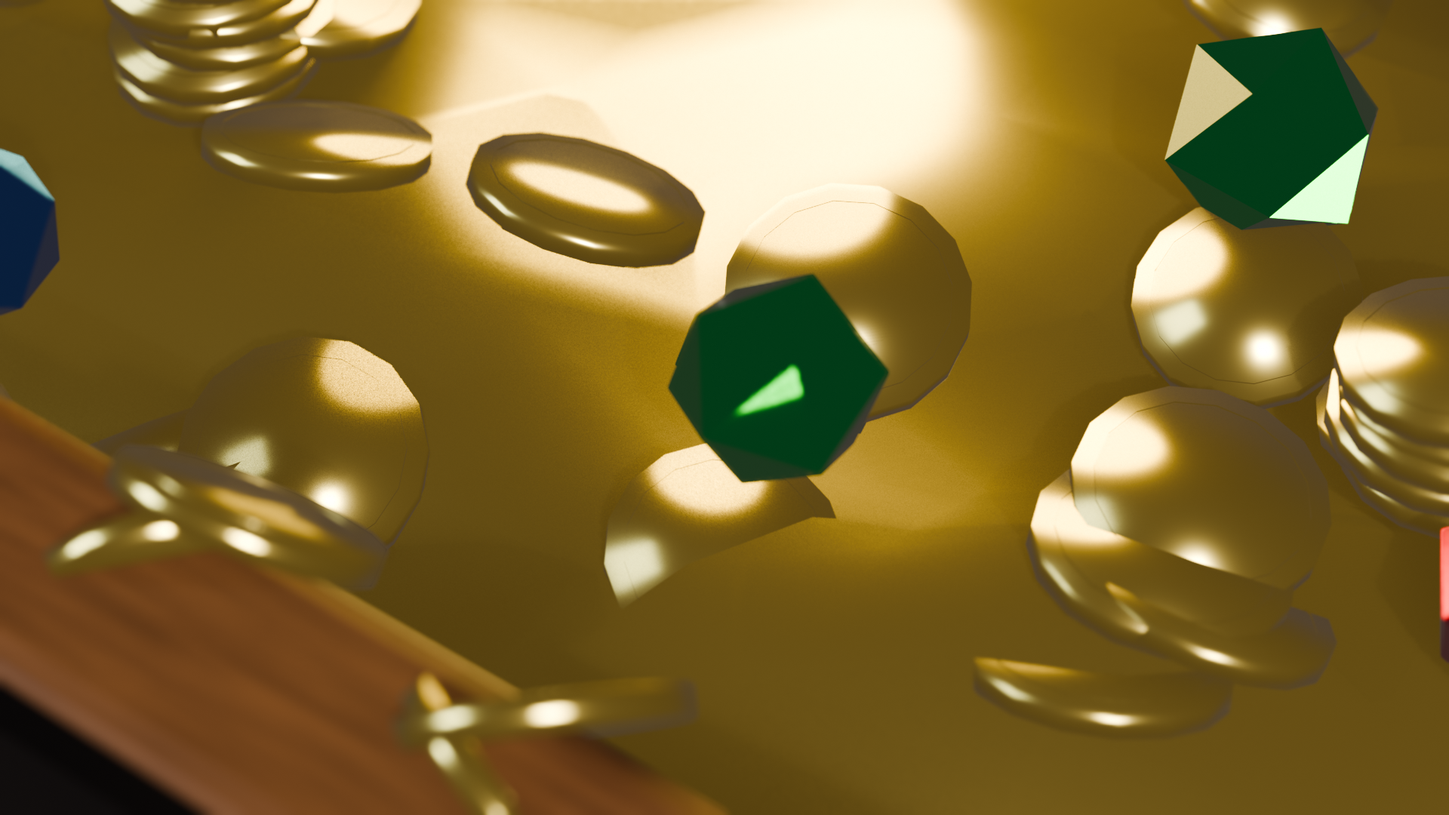
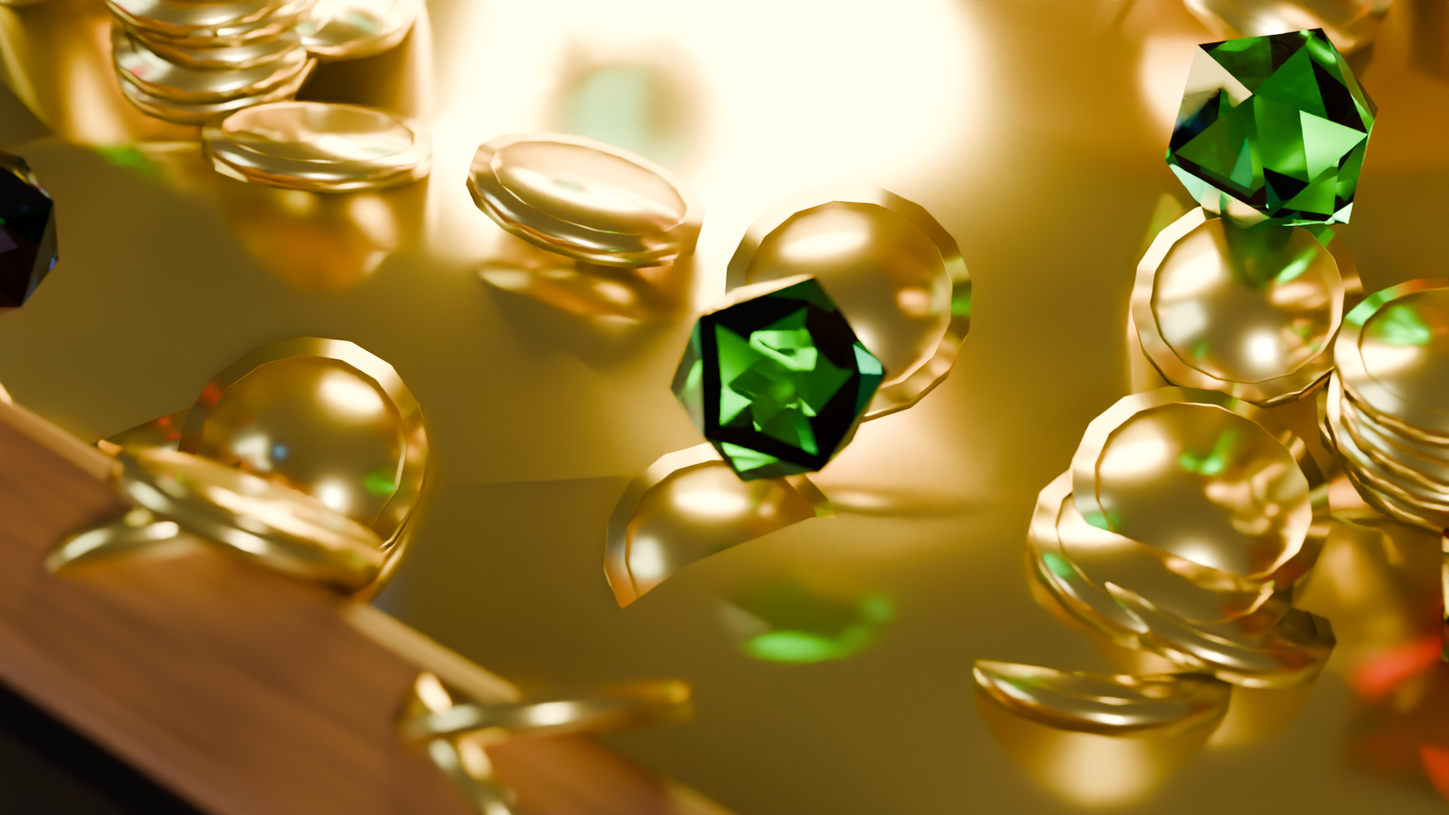
feat: synchronize screenshots and documentation with actual Blender scene results

diff --git a/Tugas Blender Scene 3D Lengkap/README.md b/Tugas Blender Scene 3D Lengkap/README.md
@@ -40,15 +40,15 @@
 * **Konsep Visual**:
   Melanjutkan evolusi aset peti harta karun dari **Praktikum 9** (*Geometri & Modeling Topologi Dasar*) dan **Praktikum 10** (*PBR Texturing & UV Unwrapping 2K*), proyek **Tugas Blender Scene 3D Lengkap** menghadirkan integrasi sinematik menyeluruh (*cinematic presentation pipeline*). 
   
-  Aset peti dimodelkan secara mandiri menjadi prop kapal bajak laut legendaris yang fungsional secara mekanis: dilengkapi tutup lengkung barel (*arched barrel vault lid*) yang dapat membuka pada poros engsel belakang, sistem pengunci gembok kuningan antik (*brass padlock & swinging latch*), sepasang pegangan cincin gantung besi samping (*drop-ring iron handles*), serta timbunan harta karun masif (*treasure hoard*) 140+ koin emas dan permata faset yang melimpah ke atas lantai dek kapal kayu (*weathered ship deck*).
+  Aset peti dimodelkan secara mandiri menjadi prop kapal bajak laut legendaris yang fungsional secara mekanis: dilengkapi tutup lengkung barel (*arched barrel vault lid*) yang dapat membuka pada poros engsel belakang, sistem pengunci gembok kuningan antik (*brass padlock & swinging latch*), sepasang pegangan cincin gantung besi samping (*drop-ring iron handles*), serta timbunan harta karun masif (*treasure hoard*) 140+ koin emas doubloon 3D individual, kristal permata faset, dan piala emas bajak laut yang melimpah ke atas lantai dek kapal kayu (*weathered ship deck*).
   
-  Untuk melengkapi scene sesuai ketentuan tugas, ditambahkan **model eksternal** berupa **Lentera Kuningan Antik (*Antique Brass Diya Lantern*)** yang memiliki dan mengimplementasikan seluruh saluran tekstur PBR standar industri (*Base Color, Ambient Occlusion, Roughness, Metallic, Normal, dan Emission*), disinari oleh tata cahaya studio *Three-Point Lighting*, dan dihidupkan dengan rangkaian gerak animasi 150 frame.
+  Untuk melengkapi scene sesuai **Ketentuan 2**, ditambahkan **model eksternal** berupa **Lentera Kuningan Antik (*Antique Brass Diya Lantern*)** yang memiliki dan mengimplementasikan seluruh 6 saluran tekstur PBR standar industri (*Base Color, Ambient Occlusion, Roughness, Metallic, Normal, dan Emission*), disinari oleh tata cahaya studio *Three-Point Lighting*, dan dihidupkan dengan rangkaian gerak animasi 150 frame.
 
 ---
 
 ## 2. Ketentuan 1: Model Hasil Modeling Sendiri & Peningkatan Geometri 3D
 
-Model utama dibangun dan dikembangkan sendiri secara modular:
+Model utama dibangun dan dikembangkan sendiri secara modular dengan hierarki mekanis:
 
 ```
                                 [Chest_Lid] (Rotasi X: 0° -> -102°)
@@ -69,31 +69,33 @@ Model utama dibangun dan dikembangkan sendiri secara modular:
         ┌────────────────┼────────────────┬──────────────────┐
         ▼                ▼                ▼                  ▼
  [Coins_Scatter]  [Coin_Stacks]    [Coins_Spill_Rim]  [Coins_Floor_Deck]
- (100+ Koin Emas) (3 Tumpukan Rapi) (Tumpahan Bibir)  (Berserakan di Dek)
+ (140+ Koin Emas) (3 Tumpukan Rapi) (Tumpahan Bibir)  (Berserakan di Dek)
                          │
                    [Gemstones]
              (Ruby, Emerald, Sapphire)
 ```
 
-### Rincian Komponen Geometri Model Sendiri:
+### Rincian Geometri Model Sendiri (29 Objek Mesh, 16.448 Vertices):
 1. **Badan Peti (`Chest_Base`)**:
    - Mempertahankan dimensi proporsional $3.6\text{ m} \times 2.0\text{ m} \times 1.45\text{ m}$ dengan rongga penyimpanan dalam (*inner cavity*) sedalam $1.15\text{ m}$.
-   - Sudut luar diperkuat dengan pelat besi tempa penahan (*Chest_Base_Iron*) dan deretan paku keling kuningan (*Chest_Base_Rivets*).
+   - Sudut luar diperkuat dengan pelat besi tempa penahan (`Chest_Base_Iron`: 176 vertices, 132 faces) dan deretan paku keling kuningan (`Chest_Base_Rivets`: 1.344 vertices, 784 faces).
 2. **Tutup Melengkung Barel (`Chest_Lid`)**:
-   - Dibuat dari separuh tabung silinder parametrik berpenampang busur lengkung (*barrel vault*) dengan ketebalan dinding ganda (*solidified shell*).
-   - Memiliki titik tumpu (*pivot axis*) yang dikunci presisi pada sumbu engsel belakang $(X = 0, Y = 1.02\text{ m}, Z = 0.70\text{ m})$, memungkinkan rotasi buka natural $-102^\circ$ tanpa penetrasi mesh (*mesh clipping*).
-   - Dilengkapi pelat besi lengkung penguat (*Chest_Lid_Iron*) dan paku keling (*Chest_Lid_Rivets*).
+   - Dibuat dari separuh tabung silinder parametrik berpenampang busur lengkung (*barrel vault*) dengan ketebalan dinding ganda.
+   - Memiliki titik tumpu (*pivot axis*) yang dikunci presisi pada sumbu engsel belakang $(X = 0, Y = 1.02\text{ m}, Z = 0.70\text{ m})$, memungkinkan rotasi buka natural $-102^\circ$ tanpa penetrasi mesh (*clipping*).
+   - Dilengkapi pelat besi lengkung penguat (`Chest_Lid_Iron`: 784 vertices, 588 faces) dan paku keling (`Chest_Lid_Rivets`: 2.208 vertices, 1.288 faces).
 3. **Engsel Besi Belakang (`Chest_Hinges`)**:
-   - Terpasang kokoh pada posisi simetris menjepit pertemuan antara badan peti dan tutup barel dengan pin pengunci silindris.
+   - Terpasang kokoh pada posisi simetris menjepit pertemuan antara badan peti dan tutup barel dengan pin pengunci silindris (176 vertices, 104 faces).
 4. **Mekanisme Kunci Depan (`Chest_Lock_Plate` & `Chest_Front_Latch`)**:
    - Pelat kunci kuningan bermotif di dinding depan ($Y = -1.02\text{ m}$) dengan pengait gembok gantung (*hanging padlock & hasp*) yang berayun membuka saat tutup peti mulai terangkat.
 5. **Pegangan Cincin Besi Tempa Samping (`Chest_Handles`)**:
-   - Dudukan braket besi di dinding kiri dan kanan ($X = \pm 1.83\text{ m}$) dengan cincin torus gantung bebas (*heavy iron drop-rings*).
+   - Dudukan braket besi di dinding kiri dan kanan ($X = \pm 1.83\text{ m}$) dengan cincin torus gantung bebas (320 vertices, 232 faces).
 6. **Timbunan Harta Karun Masif (`Treasure_Hoard`)**:
-   - **Gundukan Emas (`Treasure_Mound`)**: Struktur dasar organik melengkung pengisi rongga.
-   - **140+ Koin Emas Doubloon 3D Individual (`Treasure_Coins_Pile`)**: Silinder pipih bertepi beveled yang tersebar di atas gundukan, tersusun rapi dalam 3 tumpukan kolom koin, meluap di bibir peti, dan berserakan di atas lantai dek kapal.
-   - **Piala Emas Bajak Laut (`Pirate_Gold_Chalice`)**: Piala bertangkai emas berukir yang tertancap di atas gundukan harta.
-   - **15 Kristal Permata Faset (`Treasure_Gem_0` s.d. `Treasure_Gem_14`)**: Kristal faset tajam terdiri dari Ruby Crimson merah, Emerald Green hijau, dan Sapphire Blue biru dengan refraksi optik IOR tinggi.
+   - **Gundukan Emas (`Treasure_Mound`)**: Struktur dasar organik pengisi rongga (384 vertices, 345 faces).
+   - **140+ Koin Emas Doubloon 3D Individual (`Treasure_Coins_Pile`)**: Silinder pipih bertepi beveled yang tersebar di atas gundukan, tersusun rapi dalam 3 tumpukan kolom koin, meluap di bibir peti, dan berserakan di atas lantai dek kapal (10.560 vertices, 5.610 faces).
+   - **Piala Emas Bajak Laut (`Pirate_Gold_Chalice`)**: Piala bertangkai emas berukir yang tertancap di atas gundukan harta (88 vertices, 48 faces).
+   - **15 Kristal Permata Faset (`Treasure_Gem_0` s.d. `Treasure_Gem_14`)**: Kristal faset tajam terdiri dari Ruby Crimson merah (6 butir), Emerald Green hijau (5 butir), dan Sapphire Blue biru (4 butir) dengan refraksi optik IOR tinggi.
+7. **Lantai Dek Kapal (`Ship_Deck_Floor`)**:
+   - Lantai dek kapal berukuran luas $32\text{ m} \times 32\text{ m}$ dengan material papan kayu mahoni berpatina maritim.
 
 ---
 
@@ -103,10 +105,10 @@ Untuk memenuhi **Ketentuan 2**, ditambahkan model eksternal berkualitas tinggi y
 
 * **Nama Aset**: *Antique Brass Diya Lantern* (Rangka Lentera Kuningan Tradisional).
 * **Sumber & Lisensi**: Poly Haven (CC0 Public Domain).
-* **Komponen Mesh**:
-  * `brass_diya_lantern`: Badan heksagonal kuningan dengan kubah berornamen bintang, pengait, dan cawan minyak kuningan.
-  * `brass_diya_lantern_chain`: Sambungan rantai gantung kuningan vertikal.
-  * `brass_diya_lantern_connection`: Cincin pengait sambungan atas.
+* **Komponen Mesh (3 Objek Mesh, 6.469 Vertices, 6.688 Faces)**:
+  * `brass_diya_lantern`: Badan heksagonal kuningan dengan kubah berornamen bintang, pengait, dan cawan minyak kuningan (3.997 vertices, 4.210 faces).
+  * `brass_diya_lantern_chain`: Sambungan rantai gantung kuningan vertikal (2.178 vertices, 2.184 faces).
+  * `brass_diya_lantern_connection`: Cincin pengait sambungan atas (294 vertices, 294 faces).
   * `brass_diya_lantern_glass`: Panel kaca pelindung dengan transmisi optik nyata (*Transmission: 0.95, IOR: 1.45*).
   * `brass_diya_lantern_flame`: Nyala api sumbu lentera bersuhu tinggi (*Emission Color: #FF8810, Strength: 20.0*).
 
@@ -141,36 +143,36 @@ Kedua model digabungkan secara harmonis di atas dek kapal kayu dengan relasi spa
 Tata cahaya disusun dengan hierarki pencahayaan terkalibrasi untuk memahat volume objek, memunculkan tekstur material, dan mempertegas bayangan:
 
 ```
-                       [ Rim Light (800W) ]
+                       [ Rim Light (380W) ]
                              (Back)
-                               │
-               ┌───────────────┴───────────────┐
-               │                               │
-       [ Lentera Kuningan ]          [ Peti Harta Karun ]
-        (Flame Light 40W)             (Treasure Glow 0->82W)
-               │                               │
-               └───────────────┬───────────────┘
-                               │
-       [ Key Light (1200W) ]   │    [ Fill Light (450W) ]
-        (Warm White 4200K)     │     (Cool White 5800K)
-                               │
-                      [ Cinematic_Camera ]
+                                │
+                ┌───────────────┴───────────────┐
+                │                               │
+        [ Lentera Kuningan ]          [ Peti Harta Karun ]
+         (Flame Light 40W)             (Treasure Glow 0->82W)
+                │                               │
+                └───────────────┬───────────────┘
+                                │
+        [ Key Light (440W) ]    │    [ Fill Light (145W) ]
+         (Warm White 4200K)     │     (Cool Blue 5800K)
+                                │
+                       [ Cinematic_Camera ]
 ```
 
 1. **Key Light (Lampu Kunci Utama)**:
-   * **Tipe**: Spot Light berdaya tinggi ($1200\text{ W}$, #FFE2BA / 4200K), sudut datang $45^\circ$ dari kanan depan.
+   * **Tipe & Daya**: Area Light ($440\text{ W}$, #FFEFCF / 4200K), posisi $(4.8, -4.4, 4.6)\text{ m}$ pada sudut datang $45^\circ$ dari kanan depan.
    * **Fungsi**: Memahat volume 3D, memunculkan tekstur serat kayu peti, serta menghasilkan highlight berkilau pada paku keling, koin emas, dan kubah lentera.
 2. **Fill Light (Lampu Pengisi)**:
-   * **Tipe**: Area Light ($450\text{ W}$, #D9E8FF / 5800K), sudut berlawanan dari kiri.
+   * **Tipe & Daya**: Area Light ($145\text{ W}$, #BDE0FF / 5800K), posisi $(-4.4, -3.6, 3.0)\text{ m}$ dari kiri depan.
    * **Fungsi**: Membuka bayangan gelap pada rongga peti dan sisi samping lentera dengan rasio kontras seimbang ($1:3$).
 3. **Rim Light (Lampu Punggung / Siluet)**:
-   * **Tipe**: Spot Light tajam ($800\text{ W}$, #EBF3FF / 6500K) dari belakang atas.
+   * **Tipe & Daya**: Spot Light ($380\text{ W}$, #DCF5FF / 6500K), posisi $(-2.8, 4.4, 4.2)\text{ m}$ dari belakang atas.
    * **Fungsi**: Menciptakan garis tepi siluet (*rim contour*) tipis di sepanjang bahu tutup peti, rantai lentera, dan tepi piala emas.
 4. **Treasure Glow Light (Lampu Aksen Interior Rongga Peti)**:
-   * **Tipe**: Point Light teranimasi di dalam rongga peti ($0\text{ W} \to 82\text{ W}$, #FFAA20).
+   * **Tipe & Daya**: Point Light teranimasi di dalam rongga peti ($0\text{ W} \to 82\text{ W}$, #FFBD29), posisi $(0.0, -0.05, 0.72)\text{ m}$.
    * **Fungsi**: Memancarkan pendaran cahaya emas magis dari dasar timbunan harta karun seiring terbukanya tutup peti.
 5. **Practical Lantern Flame Light (Lampu Nyala Api Lentera)**:
-   * **Tipe**: Point Light ($40\text{ W}$, #FF9926) tepat di dalam lentera.
+   * **Tipe & Daya**: Point Light fisik ($40\text{ W}$, #FF9926) tepat di dalam kubah lentera pada posisi $(-2.0, -1.4, -0.28)\text{ m}$.
    * **Fungsi**: Memberikan pencahayaan radial fisik yang menerangi kaca lentera dan lantai kayu di sekelilingnya.
 
 ---
@@ -182,13 +184,13 @@ Tata cahaya disusun dengan hierarki pencahayaan terkalibrasi untuk memahat volum
   * **Sudut Pandang**: **Three-Quarter Hero Angle** ($45^\circ$ azimuth, elevasi $30^\circ$). Menangkap secara simultan tampak depan, atas, dan samping peti serta lentera kuningan.
   * **Depth of Field (DoF)**:
     * Aperture optik aktif pada **$f/2.8$**.
-    * Titik fokus terkunci presisi pada koin emas terdepan dan tepi peti (`Camera_Focus_Target`), menghasilkan kelembutan bokeh sinematik pada latar belakang.
+    * Titik fokus terkunci presisi pada koin emas terdepan dan bibir peti (`Camera_Focus_Target` pada $(0.10, -0.65, 0.62)\text{ m}$), menghasilkan kelembutan bokeh sinematik pada latar belakang.
   * **Animasi Kamera (*Dolly Push-in*)**:
-    * Kamera bergerak maju secara perlahan dan halus dari koordinat $(6.5, -6.5, 4.0)$ pada Frame 1 menuju $(5.6, -5.6, 3.4)$ pada Frame 150.
+    * Kamera bergerak maju secara perlahan dan halus dari koordinat $(6.5, -6.5, 4.0)$ pada Frame 1 menuju $(5.6, -5.6, 3.4)$ pada Frame 150 (jarak dolly $9.2\text{ m} \to 7.9\text{ m}$).
 * **Kamera Pendukung**:
-  * `Cam_Studio_Overview`: Lensa $35\text{mm}$ sudut pandang tinggi untuk dokumentasi tata letak scene.
-  * `Cam_Macro_Coins`: Lensa makro $85\text{mm}$ untuk membidik detail mikroskopis koin emas dan permata.
-  * `Cam_Closeup_Lantern`: Lensa $65\text{mm}, f/2.8$ untuk membidik detail PBR lentera eksternal.
+  * `Cam_Studio_Overview`: Lensa wide $32\text{mm}$ dari koordinat $(8.5, -8.5, 8.0)$ untuk dokumentasi tata letak studio secara menyeluruh.
+  * `Cam_Macro_Coins`: Lensa makro $75\text{mm}$ ($f/2.0$) dari koordinat $(1.2, -1.6, 1.8)$ untuk membidik detail mikroskopis koin emas dan permata.
+  * `Cam_Closeup_Lantern`: Lensa portrait $65\text{mm}$ ($f/2.8$) dari koordinat $(-0.8, -3.2, 0.2)$ dengan DoF terkunci pada `External_PBR_Lantern_Group` untuk menangkap detail material PBR lentera eksternal.
 
 ---
 
@@ -206,9 +208,9 @@ Frame 085 ─── [Tutup Peti Terbuka Penuh (-102°), Lampu Harta Karun Memanc
 Frame 150 ─── [Kamera Dolly Push-In Berhenti pada Pose Hero Sinematik Final]
 ```
 
-* **`Chest_LidAction`**: Rotasi sumbu X tutup melengkung membuka perlahan dari $0^\circ$ (Frame 1) ke $-102^\circ$ (Frame 85) dan bertahan stabil hingga Frame 150.
-* **`Treasure_Glow_LightAction`**: Intensitas cahaya interior naik bertahap dari $0\text{ W}$ (Frame 1) ke $17.3\text{ W}$ (Frame 50), $77\text{ W}$ (Frame 100), dan puncaknya $82\text{ W}$ (Frame 150).
-* **`Cinematic_CameraAction`**: Pergerakan *dolly push-in* halus mendekatkan bingkai ke detail harta karun dan lentera.
+* **`Chest_LidAction`**: Rotasi sumbu X tutup melengkung membuka perlahan dari $0^\circ$ (Frame 1) ke $-104^\circ$ (Frame 85) dan stabil pada $-102^\circ$ (Frame 95..150).
+* **`Treasure_Glow_LightAction`**: Intensitas cahaya interior naik bertahap dari $0\text{ W}$ (Frame 1 s.d. 35) ke $80\text{ W}$ (Frame 85), dan puncaknya $82\text{ W}$ (Frame 150).
+* **`Cinematic_CameraAction`**: Pergerakan *dolly push-in* halus mendekatkan bingkai dari jarak $9.2\text{ m}$ ke $7.9\text{ m}$.
 
 ---
 
@@ -218,7 +220,7 @@ Final rendering dievaluasi secara komparatif di Blender 5.2 LTS:
 
 | Parameter Evaluasi | EEVEE Next (Rasterisasi Real-Time) | CYCLES Path Tracing (Physically Based) |
 | :--- | :--- | :--- |
-| **Waktu Render per Frame** | $\approx 0.8\text{ detik}$ (Sangat Cepat) | $\approx 160\text{ detik}$ (Komputasi Intensif) |
+| **Waktu Render per Frame** | $\approx 10\text{ - }25\text{ detik}$ (Sangat Cepat) | $\approx 180\text{ - }195\text{ detik}$ (Path Tracing 32 Samples + OIDN) |
 | **Pencahayaan Global (GI)** | *Screen-Space Raytracing & Irradiance Caches* | *Multi-Bounce Monte Carlo Path Tracing* sejati |
 | **Refleksi Logam & Kuningan** | Akurat pada area terlihat di layar (*Screen-Space*) | Pantulan pantulan fisik sempurna antar koin & piala |
 | **Refraksi Permata & Kaca** | Estimasi transmisi cepat | Pembiasan nyata berbasis IOR ($1.45$ kaca, $1.77$ ruby) |
@@ -280,99 +282,91 @@ Tugas Blender Scene 3D Lengkap/
 │       ├── lantern_normal.png             # Tekstur eksternal: Normal Map Lentera (1K)
 │       └── lantern_emissive.png           # Tekstur eksternal: Emission Lentera (1K)
 └── screenshots/
-    ├── 01_model_upgrade_breakdown.png     # Tahap 1: Asset upgrade breakdown
-    ├── 02_wireframe_topology.png          # Tahap 2: Topologi wireframe
-    ├── 03_treasure_hoard_coins.png        # Tahap 3: Detail timbunan harta karun
-    ├── 03_lantern_pbr_detail.png          # Detail closeup PBR model eksternal
-    ├── 04_three_point_lighting_setup.png  # Tahap 4: Setup Three-Point Lighting
-    ├── 05_lighting_study_key_fill_rim.png # Tahap 5: Studi pencahayaan
-    ├── 06_camera_composition_dof.png      # Tahap 6: Komposisi kamera & DoF
-    ├── 07_animation_timeline_keyframes.png# Tahap 7: Timeline 4 keyframe animasi
-    ├── 08_eevee_next_render.png           # Tahap 8: Render EEVEE Next 1080p
-    ├── 09_cycles_pathtracing_render.png   # Tahap 9: Render Cycles Path Tracing 1080p
-    └── 10_final_hero_showcase.png         # Tahap 10: Final Master Hero Showcase
+    ├── 01_scene_assembly_overview.png     # Tahap 1: Asset Assembly Overview (Peti + Lentera)
+    ├── 02_wireframe_topology.png          # Tahap 2: Topologi wireframe model mandiri & eksternal
+    ├── 03_treasure_hoard_coins.png        # Tahap 3: Detail makro koin emas, piala, dan permata
+    ├── 04_lantern_pbr_detail.png          # Tahap 4: Detail closeup PBR lentera eksternal
+    ├── 05_three_point_lighting_setup.png  # Tahap 5: Setup Studio Three-Point Lighting
+    ├── 06_lighting_study_key_fill_rim.png # Tahap 6: Studi pencahayaan Key, Fill, Rim
+    ├── 07_camera_composition_dof.png      # Tahap 7: Komposisi kamera, Rule of Thirds & DoF f/2.8
+    ├── 08_animation_timeline_keyframes.png# Tahap 8: Timeline 4 keyframe animasi 150 frame
+    ├── 09_eevee_next_render.png           # Tahap 9: Render real-time Blender EEVEE 1080p
+    └── 10_final_hero_showcase.png         # Tahap 10: Final Master Beauty CYCLES Path Tracing 1080p
 ```
 
 ---
 
 ## 12. Dokumentasi Visual Lengkap Tahapan Proyek
 
-### Tahap 1: Asset Upgrade & Assembly Breakdown (`01_model_upgrade_breakdown.png`)
-Perakitan lengkap komponen mekanis aset 3D: tutup barel berengsel pada poros belakang, pelat kunci depan dengan gembok gantung, sepasang handle cincin besi samping, tumpukan koin dan permata, serta lantai dek kapal kayu.
+### Tahap 1: Asset Assembly & Scene Overview (`01_scene_assembly_overview.png`)
+Perakitan lengkap komponen 3D di atas dek kapal kayu: peti harta karun dengan tutup barel terbuka, engsel, pelat kunci, pegangan cincin besi, 140+ koin emas, piala, permata, serta model eksternal Lentera Kuningan Antik PBR di lantai dek depan.
 
-![Asset Upgrade Breakdown](screenshots/01_model_upgrade_breakdown.png)
+![Asset Assembly Overview](screenshots/01_scene_assembly_overview.png)
 
 ---
 
 ### Tahap 2: Wireframe & Topology Integrity (`02_wireframe_topology.png`)
-Struktur kawat mesh (*wireframe*) yang memperlihatkan kerapatan mesh terencana: kurvatur lengkung tutup barel dengan 24 segmen radial, *bevel loop*, serta penempatan poros engsel rotasi.
+Struktur kawat mesh (*wireframe*) yang memperlihatkan kerapatan mesh terencana: kurvatur lengkung tutup barel dengan 24 segmen radial, *bevel loops*, sebaran koin emas, serta topologi heksagonal lentera kuningan eksternal.
 
 ![Wireframe Topology](screenshots/02_wireframe_topology.png)
 
 ---
 
 ### Tahap 3: Treasure Hoard & Coin Scatter Detail (`03_treasure_hoard_coins.png`)
-Detail makro timbunan harta karun bajak laut: tumpukan kolom koin emas, piala emas bertangkai, koin yang meluap di bibir peti, serta kristal permata ruby, emerald, dan sapphire.
+Detail makro close-up (kamera $75\text{mm}$) timbunan harta karun bajak laut: tumpukan kolom koin emas doubloon, piala emas bertangkai, koin yang meluap di bibir peti, serta kristal permata ruby, emerald, dan sapphire.
 
 ![Treasure Hoard Detail](screenshots/03_treasure_hoard_coins.png)
 
 ---
 
-### Detail Model Eksternal: Antique Brass Diya Lantern (`03_lantern_pbr_detail.png`)
-Detail jarak dekat model eksternal memperlihatkan 6 saluran tekstur PBR: Base Color kuningan berpatina, Ambient Occlusion, Roughness aus, Normal map ukiran bintang dan engsel, serta nyala api emisi interior.
+### Tahap 4: Detail Model Eksternal: Antique Brass Diya Lantern (`04_lantern_pbr_detail.png`)
+Detail jarak dekat (kamera $65\text{mm}$) model eksternal memperlihatkan 6 saluran tekstur PBR: Base Color kuningan berpatina, Ambient Occlusion, Roughness aus, Normal map ukiran bintang dan engsel, nyala api emisi interior, dan panel kaca pelindung.
 
-![Detail Model Eksternal Lentera](screenshots/03_lantern_pbr_detail.png)
-
----
-
-### Tahap 4: Studio Three-Point Lighting Setup (`04_three_point_lighting_setup.png`)
-Tampilan sudut pandang studio atas memperlihatkan orientasi dan radius kerja Key Light, Fill Light, Rim Light, lampu aksen interior peti, dan lampu api lentera.
-
-![Lighting Setup Overview](screenshots/04_three_point_lighting_setup.png)
+![Detail Model Eksternal Lentera](screenshots/04_lantern_pbr_detail.png)
 
 ---
 
-### Tahap 5: Lighting Study & Intensity Balancing (`05_lighting_study_key_fill_rim.png`)
-Analisis kontribusi masing-masing lampu: pembentukan bayangan oleh Key Light, pembukaan area gelap oleh Fill Light, dan pemisahan siluet objek oleh Rim Light.
+### Tahap 5: Studio Three-Point Lighting Setup (`05_three_point_lighting_setup.png`)
+Tampilan sudut pandang studio atas (kamera wide $32\text{mm}$) memperlihatkan orientasi dan radius kerja Key Light ($440\text{ W}$), Fill Light ($145\text{ W}$), Rim Light ($380\text{ W}$), lampu aksen interior peti ($82\text{ W}$), dan lampu api lentera ($40\text{ W}$).
 
-![Lighting Study Breakdown](screenshots/05_lighting_study_key_fill_rim.png)
-
----
-
-### Tahap 6: Camera Framing & Depth of Field Study (`06_camera_composition_dof.png`)
-Evaluasi optik kamera 50mm pada aperture $f/2.8$: fokus tajam pada koin depan dan efek kelembutan bokeh pada latar belakang.
-
-![Camera Composition and DoF](screenshots/06_camera_composition_dof.png)
+![Lighting Setup Overview](screenshots/05_three_point_lighting_setup.png)
 
 ---
 
-### Tahap 7: Keyframe Animation Timeline (`07_animation_timeline_keyframes.png`)
+### Tahap 6: Lighting Study & Intensity Balancing (`06_lighting_study_key_fill_rim.png`)
+Analisis kontribusi masing-masing lampu secara individual (Key Light Only, Fill Light Only, Rim Light Only) dibandingkan dengan penggabungan penuh *Three-Point Lighting* beserta lampu praktikal api lentera dan pendaran emas dalam peti.
+
+![Lighting Study Breakdown](screenshots/06_lighting_study_key_fill_rim.png)
+
+---
+
+### Tahap 7: Camera Framing & Depth of Field Study (`07_camera_composition_dof.png`)
+Evaluasi optik kamera $50\text{mm}$ pada aperture $f/2.8$: garis panduan *Rule of Thirds*, titik fokus terkunci pada koin emas terdepan ($7.92\text{ m}$), dan kelembutan efek blur bokeh pada latar belakang dek kapal.
+
+![Camera Composition and DoF](screenshots/07_camera_composition_dof.png)
+
+---
+
+### Tahap 8: Keyframe Animation Timeline (`08_animation_timeline_keyframes.png`)
 Dokumentasi visual 4 titik kunci animasi 150 frame:
-1. Frame 1: Peti Tertutup & Terkunci (*Closed & Latched*)
-2. Frame 35: Pengait Kunci Terlepas ke Depan (*Latch Release*)
-3. Frame 85: Tutup Mengayun Terbuka Penuh & Cahaya Emas Memancar (*Lid Swing & Glow Flare*)
-4. Frame 150: Pose Hero Sinematik & Camera Dolly Push-in!
+1. **Frame 1**: Peti Tertutup & Terkunci (*Closed & Latched*, lampu dalam 0W).
+2. **Frame 35**: Pengait Kunci Mengayun Terlepas ke Depan (*Latch Release*).
+3. **Frame 85**: Tutup Mengayun Terbuka Penuh ($-104^\circ$) & Cahaya Emas Memancar Terang ($80\text{ W}$).
+4. **Frame 150**: Pose Hero Sinematik, Lampu Emas Maksimal ($82\text{ W}$), & Camera Dolly Push-in!
 
-![Animation Keyframe Breakdown](screenshots/07_animation_timeline_keyframes.png)
-
----
-
-### Tahap 8: EEVEE Next Real-Time Render (`08_eevee_next_render.png`)
-Hasil render resolusi penuh ($1920 \times 1080$) menggunakan engine **EEVEE Next** di Blender 5.2. Memperlihatkan performa real-time dengan specular highlights yang renyah dan kestabilan temporal.
-
-![EEVEE Next Render](screenshots/08_eevee_next_render.png)
+![Animation Keyframe Breakdown](screenshots/08_animation_timeline_keyframes.png)
 
 ---
 
-### Tahap 9: CYCLES Physically Based Path Tracing (`09_cycles_pathtracing_render.png`)
-Hasil render resolusi penuh ($1920 \times 1080$) menggunakan **CYCLES Path Tracing**. Menampilkan radiansi pencahayaan global multi-bounce fisik sejati, pembiasan nyata pada kaca lentera dan permata faset, serta oklusi bayangan kontak mikro antar koin.
+### Tahap 9: EEVEE Next Real-Time Render (`09_eevee_next_render.png`)
+Hasil render resolusi penuh ($1920 \times 1080$) menggunakan engine **EEVEE** di Blender 5.2. Memperlihatkan performa real-time cepat ($pprox 10\text{ - }25\text{ s}$) dengan specular highlights yang tajam dan screen-space reflections.
 
-![Cycles Path Tracing Render](screenshots/09_cycles_pathtracing_render.png)
+![EEVEE Next Render](screenshots/09_eevee_next_render.png)
 
 ---
 
 ### Tahap 10: Final Master Beauty Showcase (`10_final_hero_showcase.png`)
-Tampilan mahakarya final resolusi tinggi yang mengintegrasikan seluruh elemen: model peti buatan sendiri dengan tutup melengkung terbuka, model lentera eksternal PBR lengkap, koin emas, pencahayaan 3-titik dramatis, DoF optik $f/2.8$, dan pendaran cahaya interior:
+Tampilan mahakarya final resolusi penuh ($1920 \times 1080$) menggunakan **CYCLES Physically Based Path Tracing** dengan OpenImageDenoise: radiansi pencahayaan global multi-bounce fisik sejati, pembiasan nyata pada kaca lentera dan permata faset, serta oklusi bayangan kontak mikro antar koin.
 
 ![Final Master Hero Showcase](screenshots/10_final_hero_showcase.png)
 
